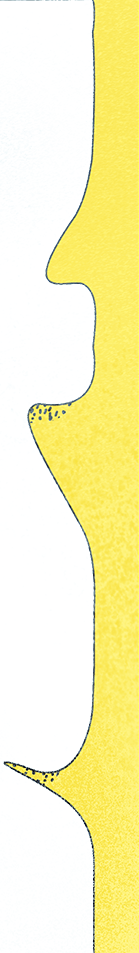
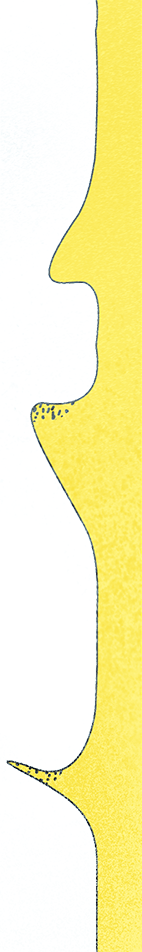
bottom edge

diff --git a/source/stylesheets/_homepage.scss b/source/stylesheets/_homepage.scss
@@ -1,9 +1,10 @@
 body {
   // background-image: url("/images/backgrounds/W2N_edges_extra-long.png");
-  background-size: contain;
+  background-size: cover;
   background-image: url("/images/backgrounds/W2N_blue_bg-repeating.jpg");
   margin: 0;
   @include media-breakpoint-down(sm) {
+    background-size: contain;
   }
 }
 
@@ -52,7 +53,7 @@ body {
   position: absolute;
   width: 104px;
   right: 0;
-  top: 25px;
+  top: -55px;
   z-index: 15;
 }
 
@@ -68,6 +69,15 @@ body {
   left: 0;
   top: 25px;
   z-index: 15;
+}
+
+.edge-left,
+.edge-left-double,
+.edge-right,
+.edge-right-double {
+  @include media-breakpoint-down(sm) {
+    display: none;
+  }
 }
 
 // .edge-right-double {

diff --git a/source/stylesheets/_footer.scss b/source/stylesheets/_footer.scss
@@ -1,18 +1,21 @@
-header.header-primary {
+footer.footer-primary {
   .bg-left,
   .bg-right {
     position: fixed;
     z-index: 16;
     width: 1525px;
-    height: 90px;
+    height: 46px;
     background-size: 1525px;
     background-repeat: no-repeat;
-    background-image: url(/images/backgrounds/top-edge.png);
-    top: -1px;
+    background-image: url(/images/backgrounds/bottom-edge.png);
+    bottom: -1px;
   }
   .bg-left {
     mask-image: linear-gradient(
       90deg,
+      black 40px,
+      transparent 1%,
+      black 1%,
       rgba(0, 0, 0, 1) 56%,
       rgba(0, 212, 255, 0) 68%
     );

diff --git a/source/stylesheets/_artist-panel.scss b/source/stylesheets/_artist-panel.scss
@@ -1,10 +1,10 @@
 .artists-container {
   display: flex;
   flex-direction: column;
-  padding: 0 2rem;
+  padding: 0 6rem;
   margin: 0;
   justify-content: flex-start;
-  max-width: 1200px;
+  max-width: 1100px;
   margin: 0 auto;
   @include media-breakpoint-down(sm) {
     padding: 0 4rem;
@@ -20,8 +20,8 @@
   .artists {
     display: grid;
     grid-template-columns: repeat(auto-fit, minmax(300px, 1fr));
-    grid-column-gap: 1rem;
-    grid-row-gap: 1rem;
+    grid-column-gap: 1.8rem;
+    grid-row-gap: 2rem;
     margin: 0 auto;
 
     .artist-panel {

diff --git a/source/stylesheets/site.css.scss b/source/stylesheets/site.css.scss
@@ -8,5 +8,6 @@
 @import "_splash";
 @import "_ticket-tailor";
 @import "_header";
+@import "_footer";
 
 @import "_homepage";
